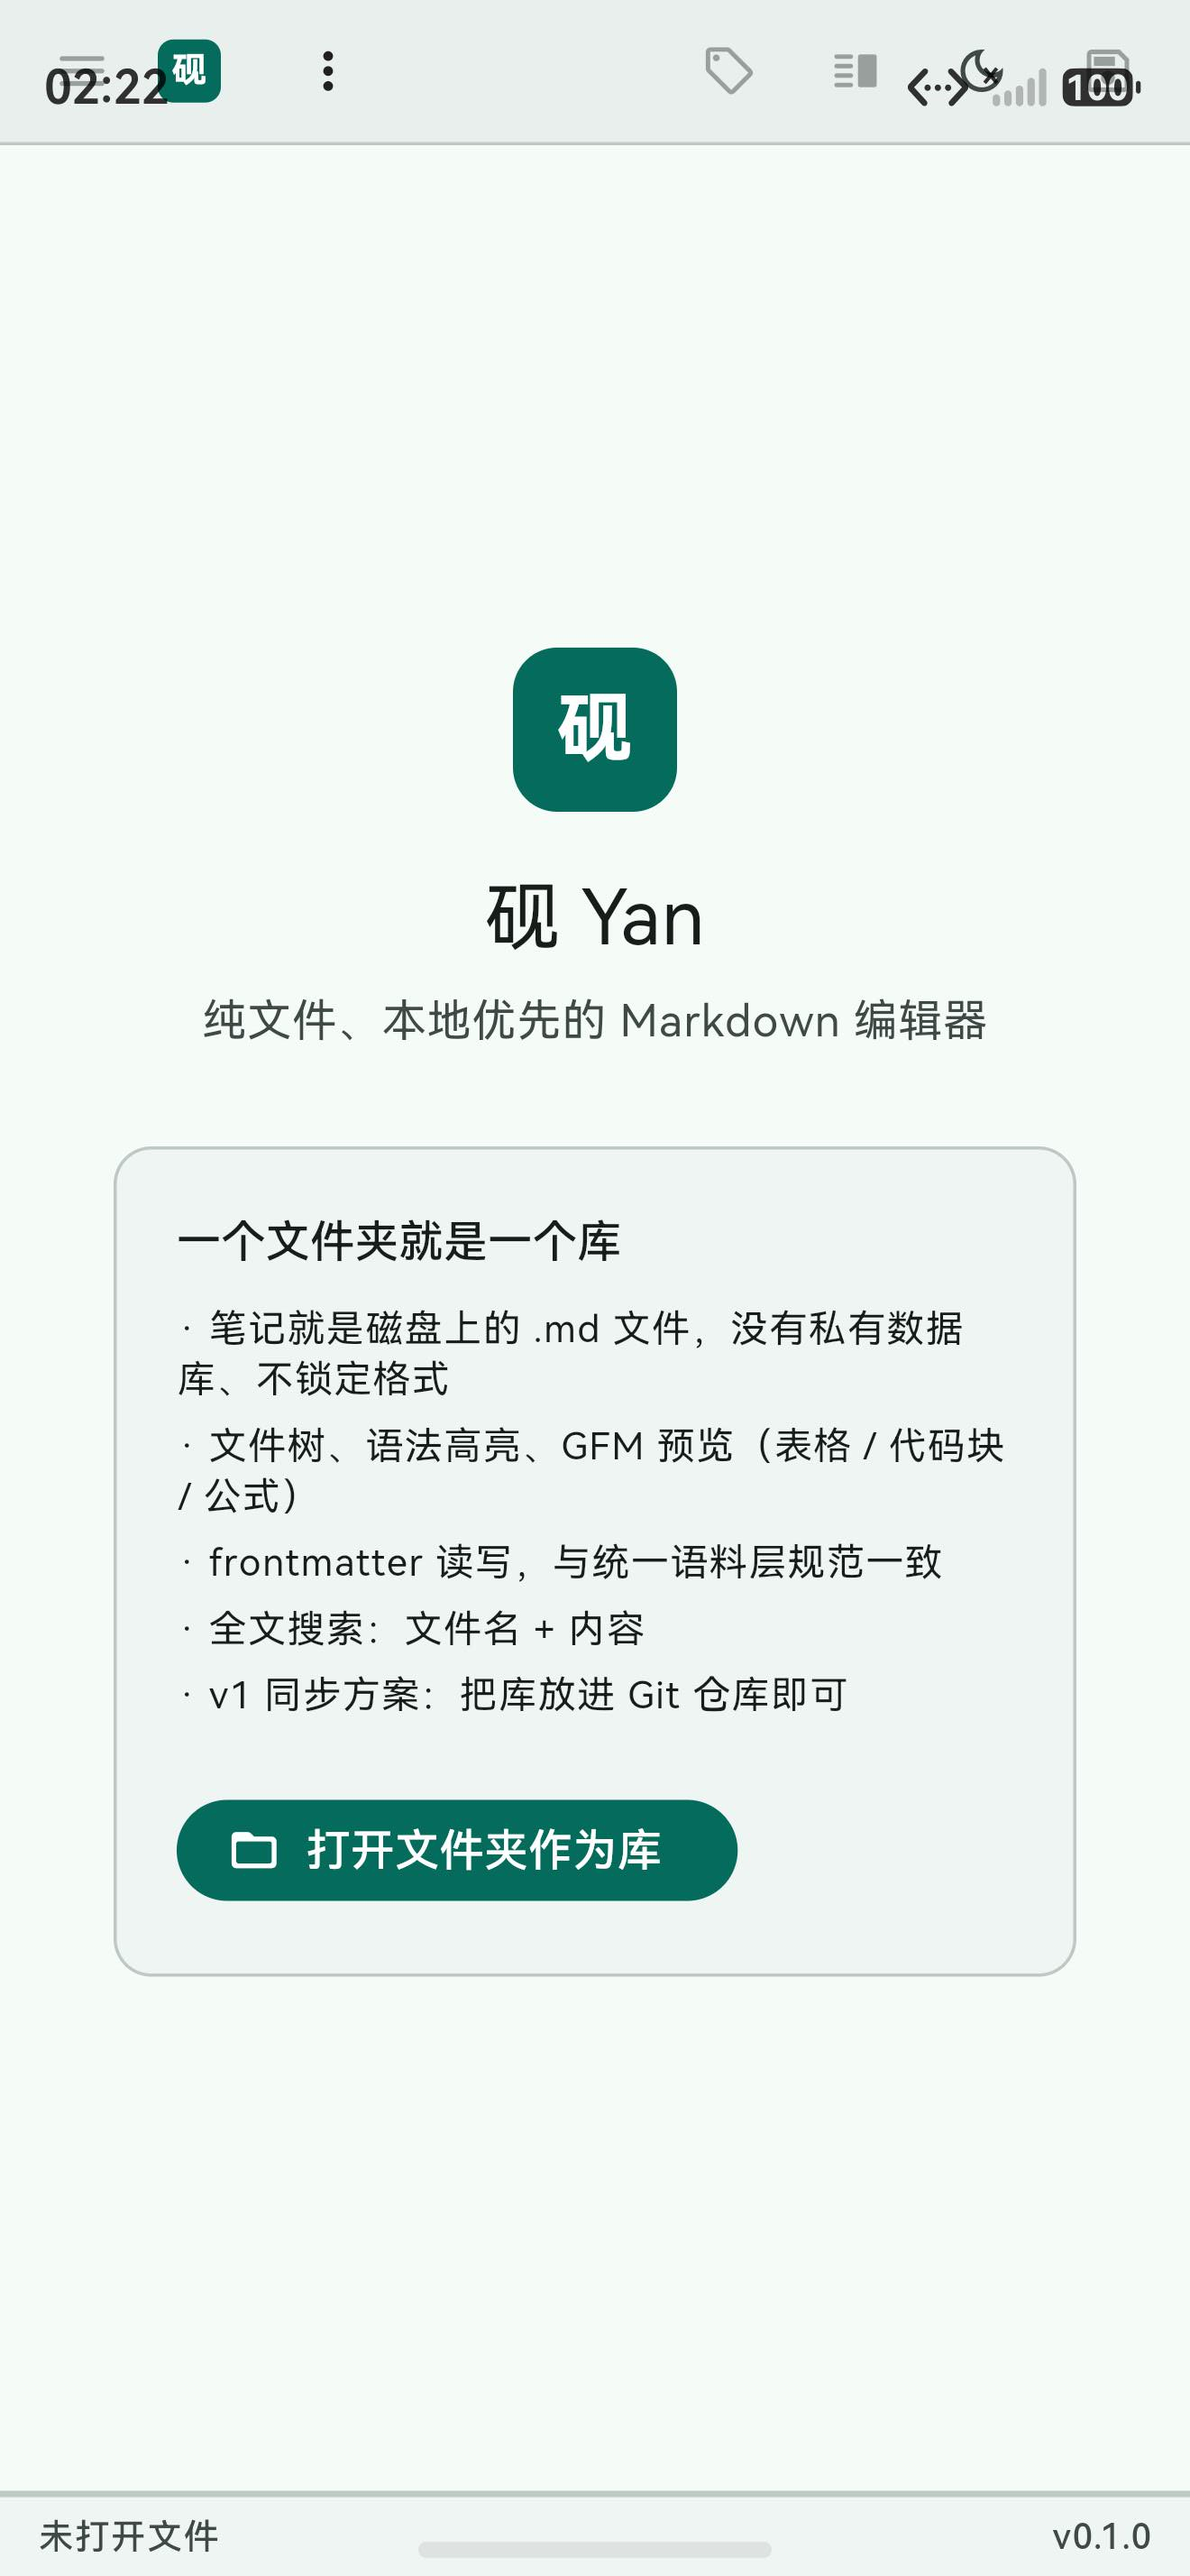
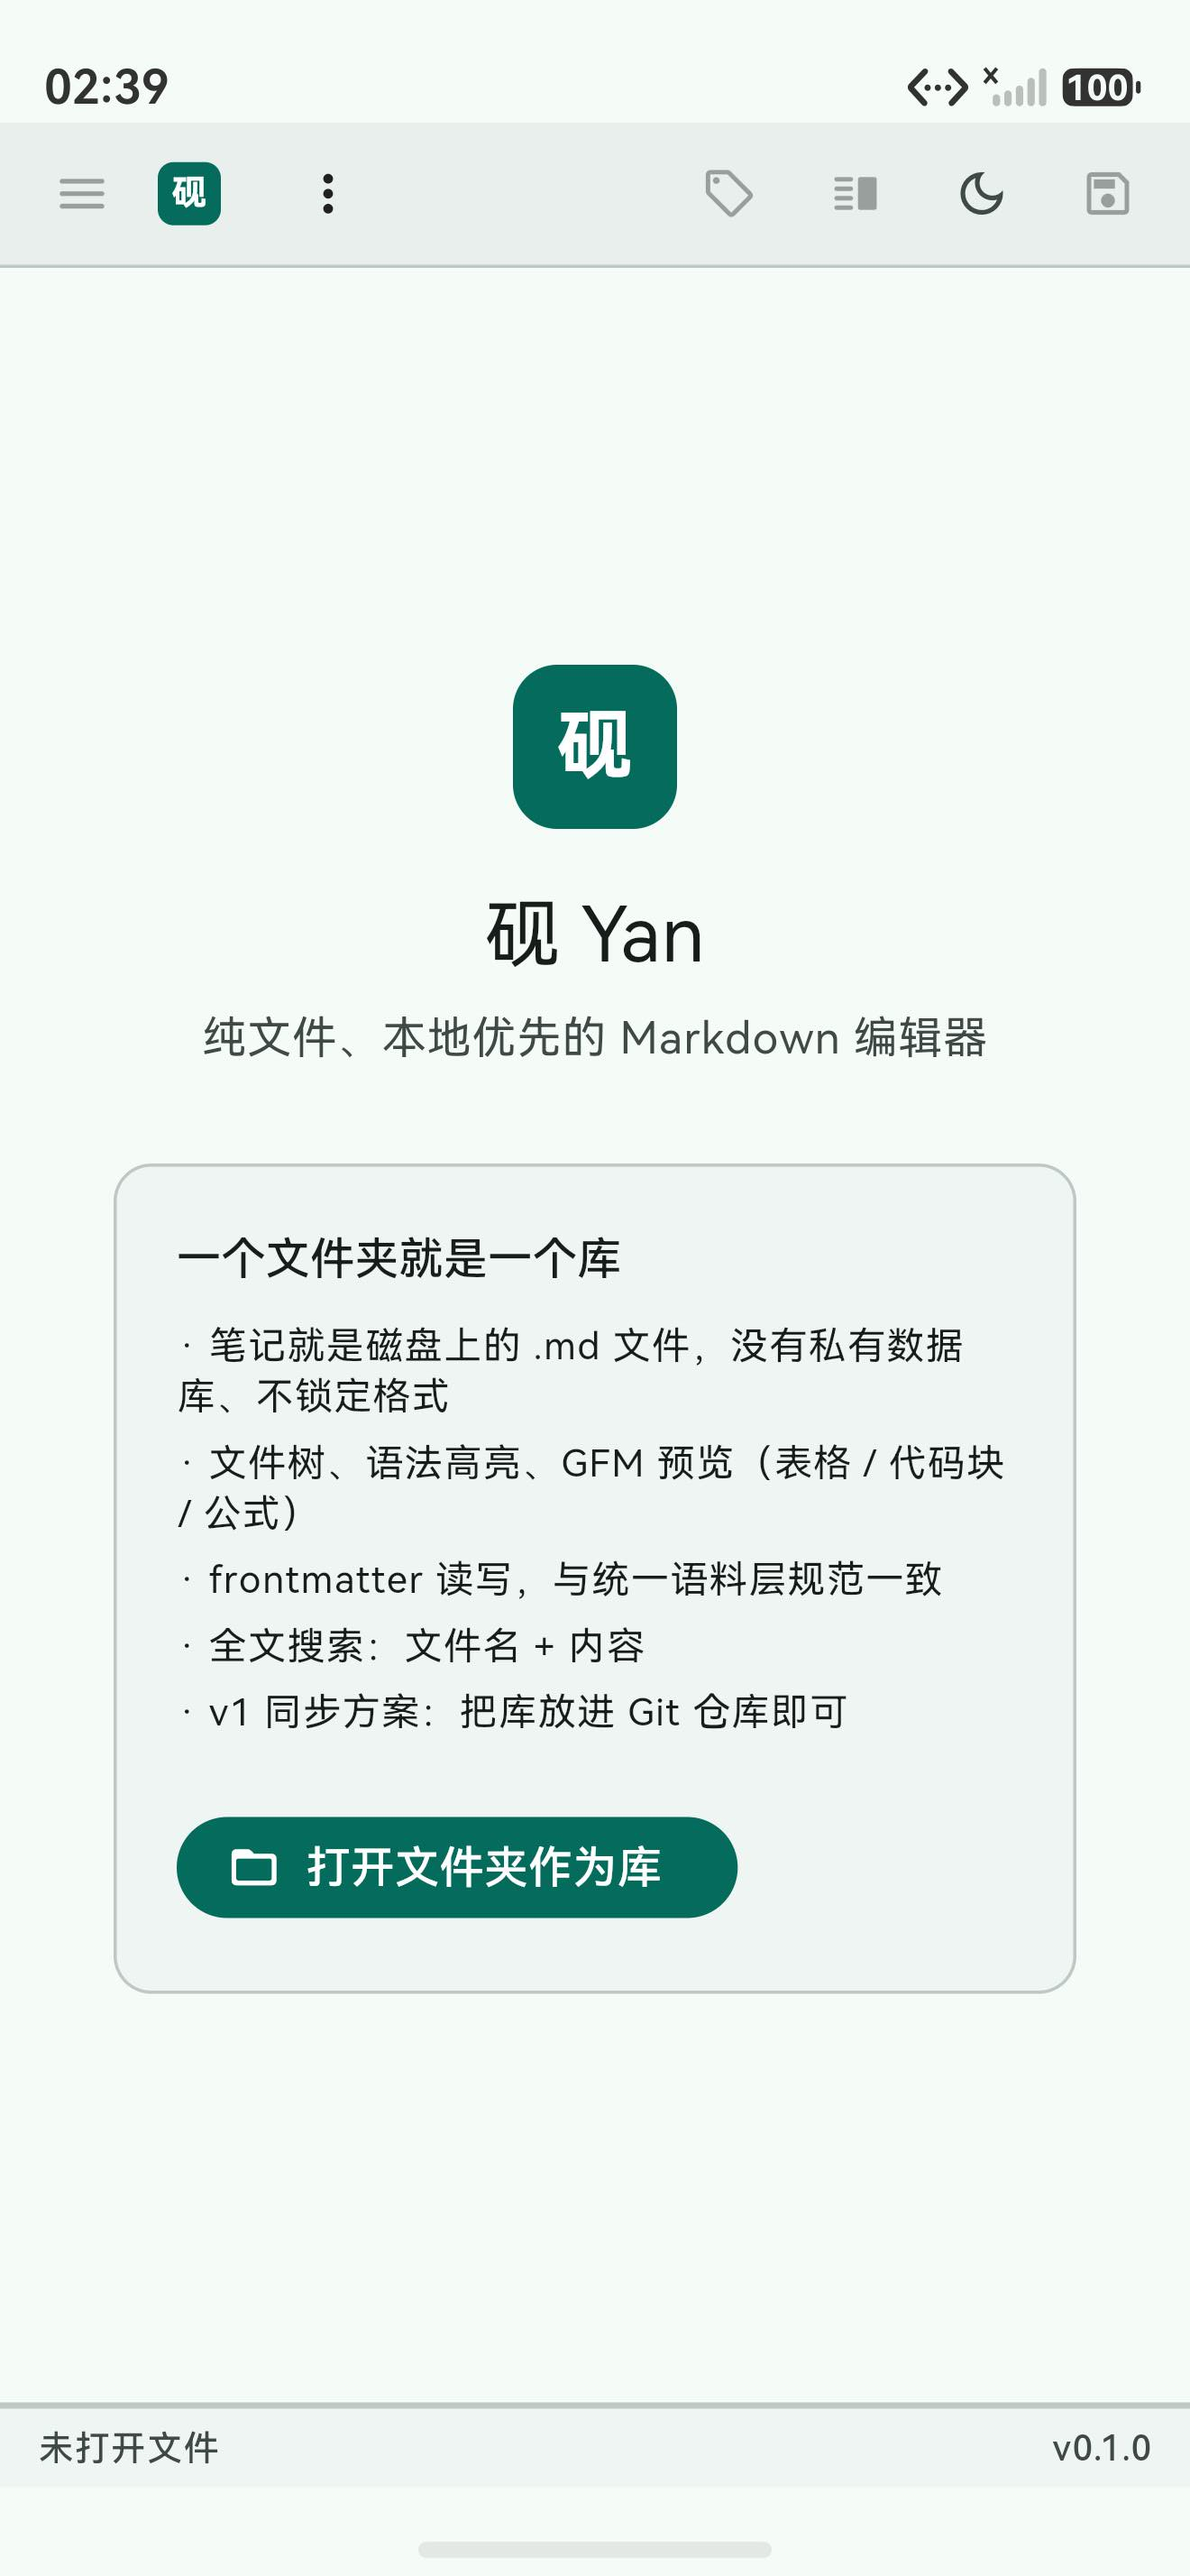
fix(ui): 顶栏与鸿蒙系统状态栏重叠 —— 内容未避让系统栏
症状
- 模拟器上应用顶栏与系统状态栏完全重叠：时间/信号/电量压住了
  "砚"标题与右侧的搜索/侧栏/主题/frontmatter 图标

根因
- 鸿蒙 fork 引擎里 isDefaultFullScreen() 对非 2in1 设备返回 true，
  即手机默认全屏，Flutter 内容直接画到状态栏下面
- 引擎已正确提供 avoid area（FlutterView 读 window.getWindowAvoidArea），
  但 Shell 的 Scaffold body 直接是 Column，没有 SafeArea，于是顶栏没避让

修复
- Scaffold body 包一层 SafeArea
- 桌面端 MediaQuery padding 为 0，SafeArea 是 no-op，行为不变

顺带（上一轮已在模拟器上发现）
- 欢迎页不再在触屏设备显示"或按 Ctrl+O"

验证
- 模拟器截图确认顶栏完整位于状态栏下方，右侧图标全部可见
  （docs/images/shot-harmonyos-emulator.jpeg 已更新为修好后的画面）
- dart analyze lib 干净；95 个单元/widget 测试全绿

diff --git a/app/lib/src/ui/shell.dart b/app/lib/src/ui/shell.dart
@@ -41,7 +41,11 @@ class _ShellState extends State<Shell> {
         actions: _actions(state),
         child: Focus(
           autofocus: true,
-          child: Scaffold(            body: Column(
+          child: Scaffold(
+            // 鸿蒙手机默认全屏（引擎里 isDefaultFullScreen() 对非 2in1 设备返回 true），
+            // 内容会画到状态栏/导航栏下面，必须靠 SafeArea 避让，否则顶栏与系统栏重叠。
+            body: SafeArea(
+              child: Column(
               children: <Widget>[
                 _TopBar(
                   state: state,
@@ -90,6 +94,7 @@ class _ShellState extends State<Shell> {
                 Container(height: 1, color: scheme.outlineVariant),
                 StatusBar(state: state),
               ],
+              ),
             ),
           ),
         ),
